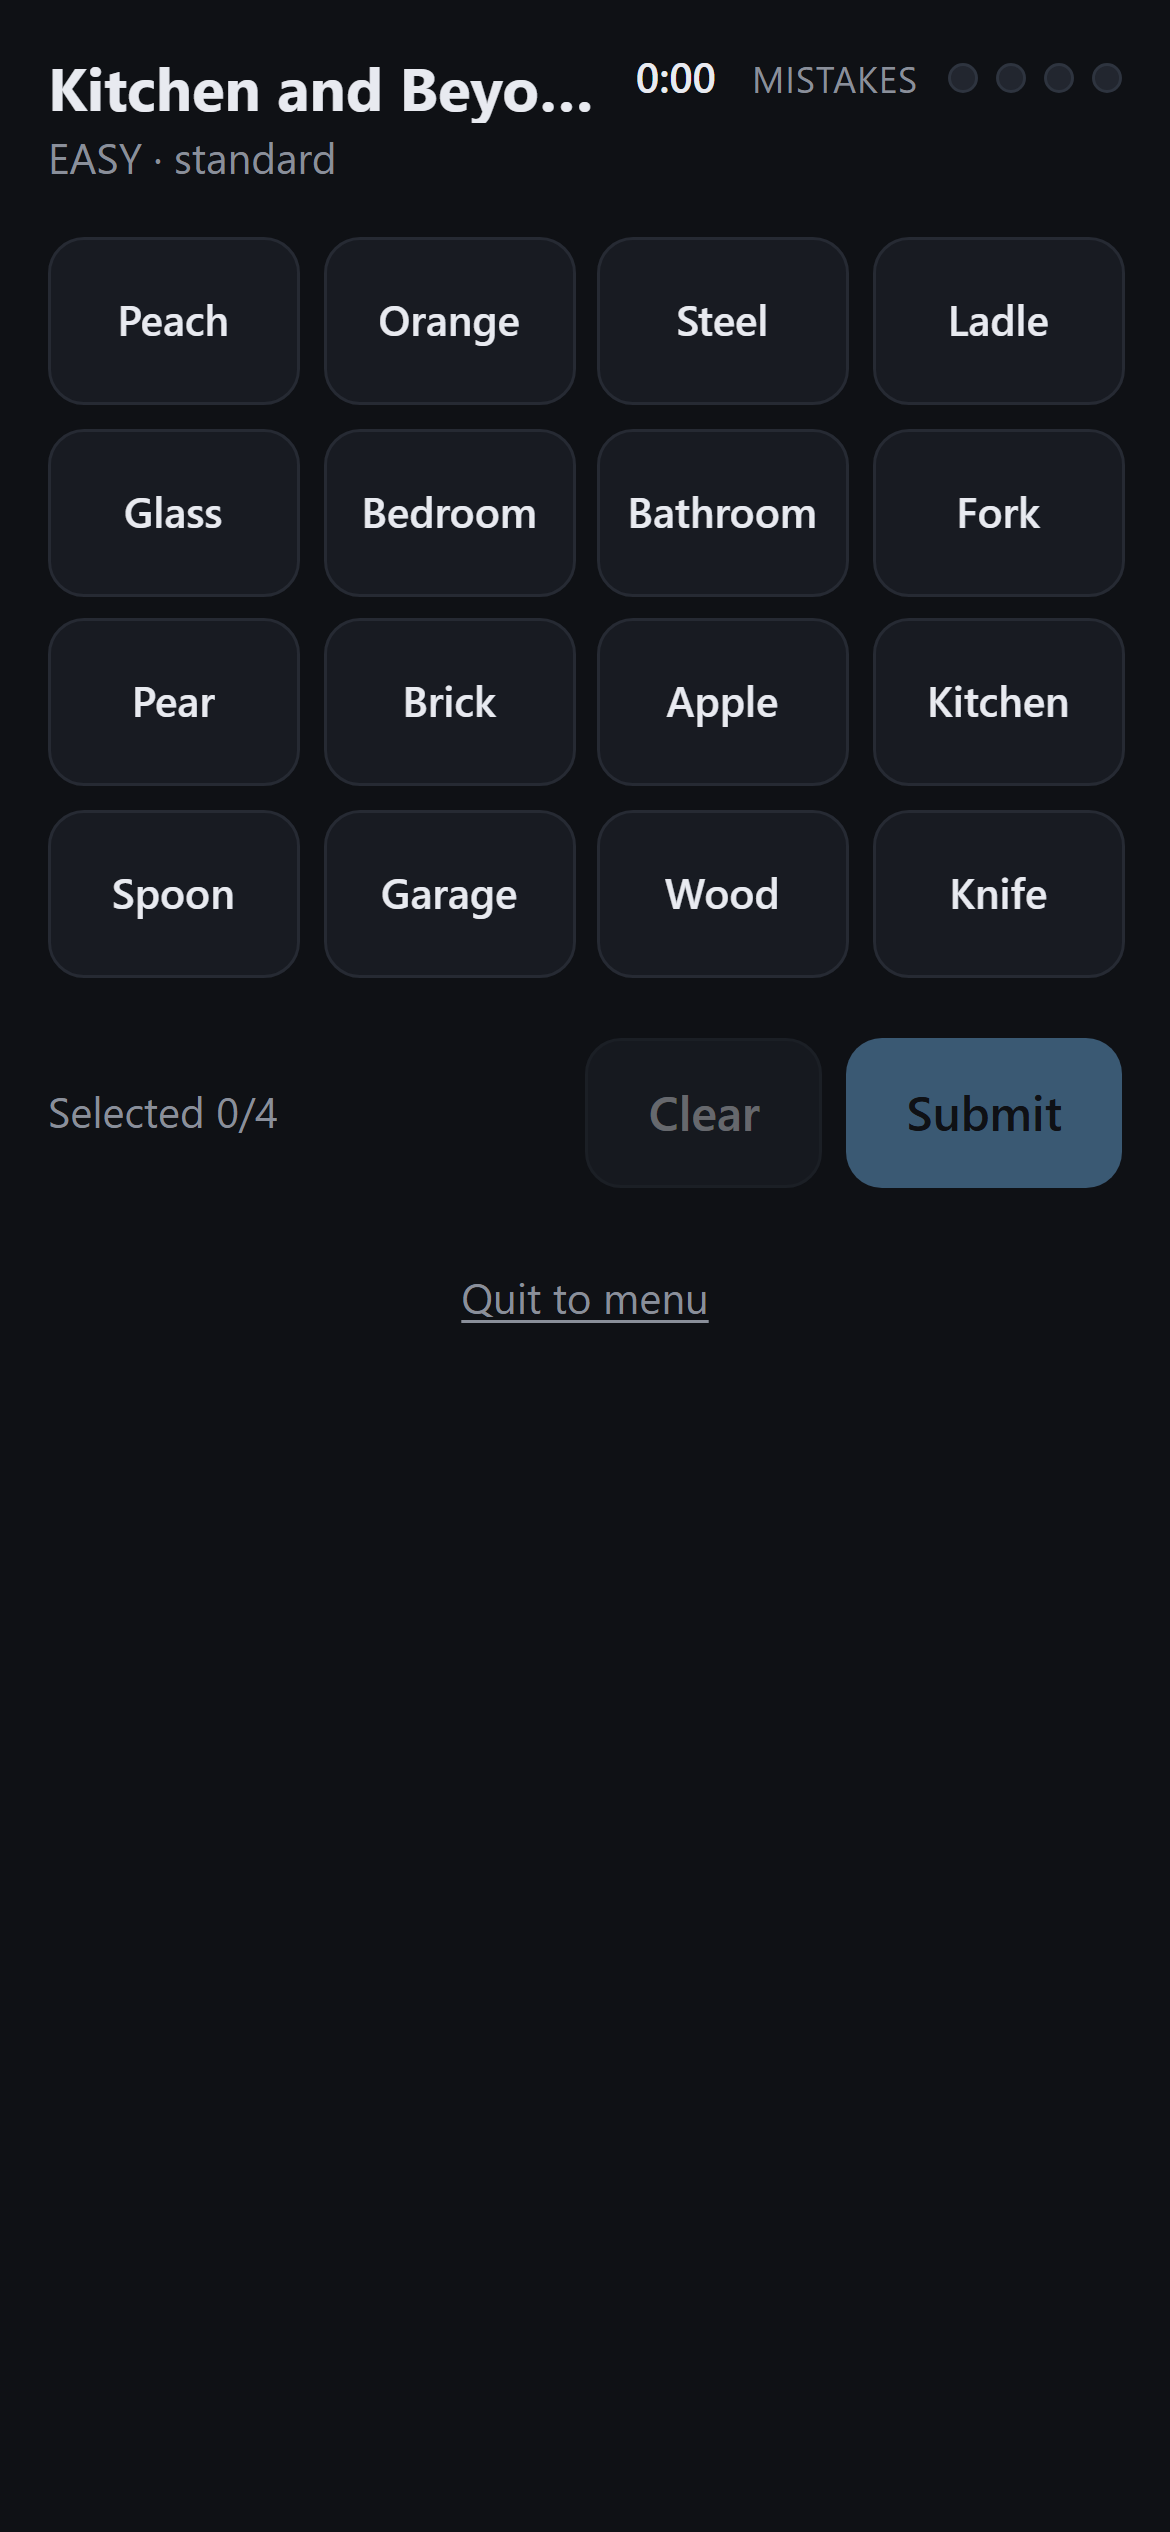
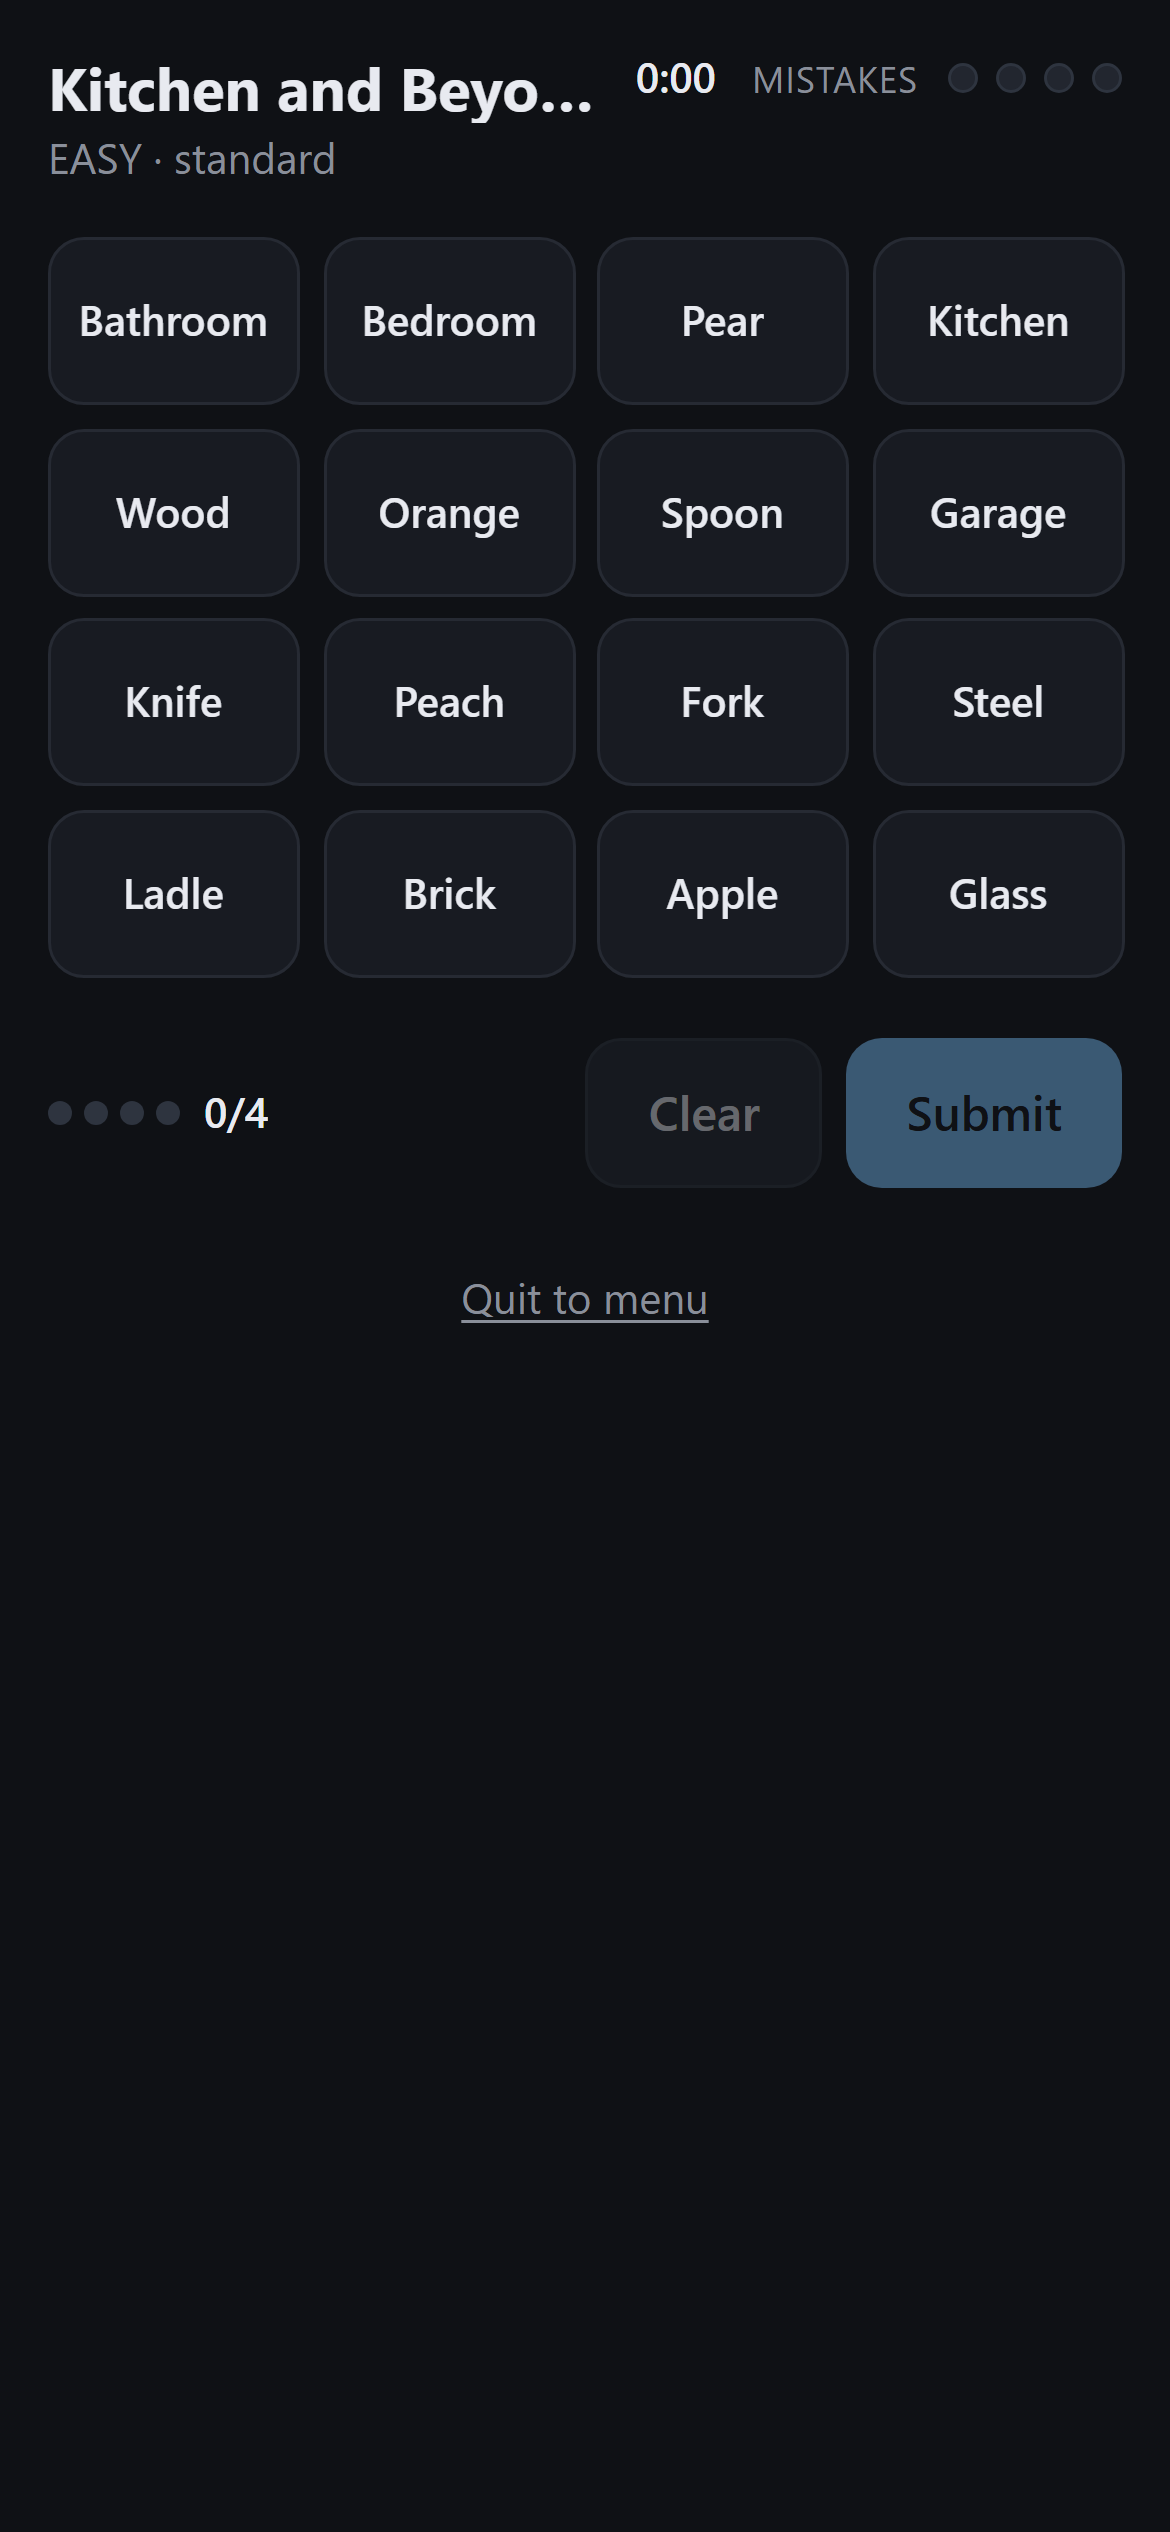
feat(ux): mobile polish pass per itch iPhone QA review
Four focused, high-impact UX fixes flagged in mobile review:

- Selected card: accent background was too close to idle surface at
  glance on small viewports. Added a 2px ring + offset + white-alpha
  shadow so selection reads as unmistakable on iPhone.
- Selection counter: replaced the muted "Selected 0/4" text with a
  row of 4 filled/empty dots + bold counter. Progress reads at a
  glance without parsing a number.
- Submit ready state: when exactly 4 cards are selected the Submit
  button gains a soft accent ring glow, so readiness vs disabled is
  visually distinct (not just an opacity change).
- Master Challenge locked parity: Master-locked now uses the same
  bordered secondary variant as Medium-locked instead of a faint ghost
  link, removing the "is that a button?" moment.

Also regenerated itch assets: added 1100x800 landscape Embed BG for
the "Edit theme → Embed BG" slot (matches configured iframe frame
dimensions) so the area behind the mobile "Run game" launcher shows
the colored category bars + wordmark instead of cropped darkness.

diff --git a/src/screens/GameScreen.tsx b/src/screens/GameScreen.tsx
@@ -154,9 +154,25 @@ export function GameScreen() {
         })}
       </Grid>
       <div className="mt-5 flex items-center justify-between gap-3 max-w-md mx-auto">
-        <span className="text-sm text-muted">
-          Selected {active.selection.length}/{SELECTION_SIZE}
-        </span>
+        <div className="flex items-center gap-2" aria-live="polite">
+          <div
+            className="flex gap-1"
+            role="img"
+            aria-label={`Selected ${active.selection.length} of ${SELECTION_SIZE}`}
+          >
+            {Array.from({ length: SELECTION_SIZE }).map((_, i) => (
+              <span
+                key={i}
+                className={`inline-block w-2 h-2 rounded-full ${
+                  i < active.selection.length ? "bg-accent" : "bg-[#2e343f]"
+                }`}
+              />
+            ))}
+          </div>
+          <span className="text-sm font-semibold text-text tabular-nums">
+            {active.selection.length}/{SELECTION_SIZE}
+          </span>
+        </div>
         <div className="flex gap-2">
           <Button
             variant="secondary"
@@ -165,7 +181,15 @@ export function GameScreen() {
           >
             Clear
           </Button>
-          <Button onClick={handleSubmit} disabled={!canSubmit(active.selection)}>
+          <Button
+            onClick={handleSubmit}
+            disabled={!canSubmit(active.selection)}
+            className={
+              canSubmit(active.selection)
+                ? "ring-2 ring-accent/40 shadow-[0_0_0_4px_rgba(124,196,255,0.12)]"
+                : ""
+            }
+          >
             Submit
           </Button>
         </div>

diff --git a/src/components/Card.tsx b/src/components/Card.tsx
@@ -18,7 +18,10 @@ export function Card({ value, state, solvedColorIndex = 0, disabled, onClick }: 
   if (state === "solved") {
     variant = `${SOLVED_COLOR_CLASSES[solvedColorIndex % SOLVED_COLOR_CLASSES.length]} ${MOTION_CLASS.solvedPop}`;
   } else if (state === "selected") {
-    variant = `bg-accent text-bg ${MOTION_CLASS.selectedLift}`;
+    // Strong ring + lift so the selected state is unmistakable on mobile
+    // at a glance. Previously the accent-blue background alone blended
+    // into the dark grid at small viewport sizes.
+    variant = `bg-accent text-bg ring-2 ring-accent ring-offset-2 ring-offset-bg shadow-[0_0_0_1px_rgba(255,255,255,0.2)] ${MOTION_CLASS.selectedLift}`;
   } else {
     variant = "bg-surface text-text hover:bg-surfaceHi border border-[#262a33]";
   }
@@ -42,7 +45,7 @@ export function Card({ value, state, solvedColorIndex = 0, disabled, onClick }: 
     >
       <span className="break-words">
         {marker && (
-          <span className="mr-1 text-[10px] opacity-70" aria-hidden="true">
+          <span className="mr-1 text-xs opacity-90" aria-hidden="true">
             {marker}
           </span>
         )}

diff --git a/src/screens/MenuScreen.tsx b/src/screens/MenuScreen.tsx
@@ -60,6 +60,12 @@ export function MenuScreen() {
       : hReadiness.level === "locked"
         ? "Master Challenge — locked"
         : "Master Challenge";
+  // Mirror the Medium-button style logic so a locked Master button looks
+  // like a locked Medium button (both bordered secondary) instead of a
+  // faint ghost link. This removed an inconsistency flagged in mobile QA
+  // where Master-locked visually felt like a separate tier of UI element.
+  const hardButtonVariant: "primary" | "secondary" | "ghost" =
+    hReadiness.unlocked && hReadiness.hasContent ? "primary" : "secondary";
 
   return (
     <div className="flex flex-col items-center text-center gap-4 pt-1 sm:pt-3">
@@ -106,7 +112,7 @@ export function MenuScreen() {
               {mediumButtonLabel}
             </Button>
             <Button
-              variant="ghost"
+              variant={hardButtonVariant}
               onClick={handleHardClick}
               disabled={hardDisabled}
               aria-disabled={hardDisabled}
